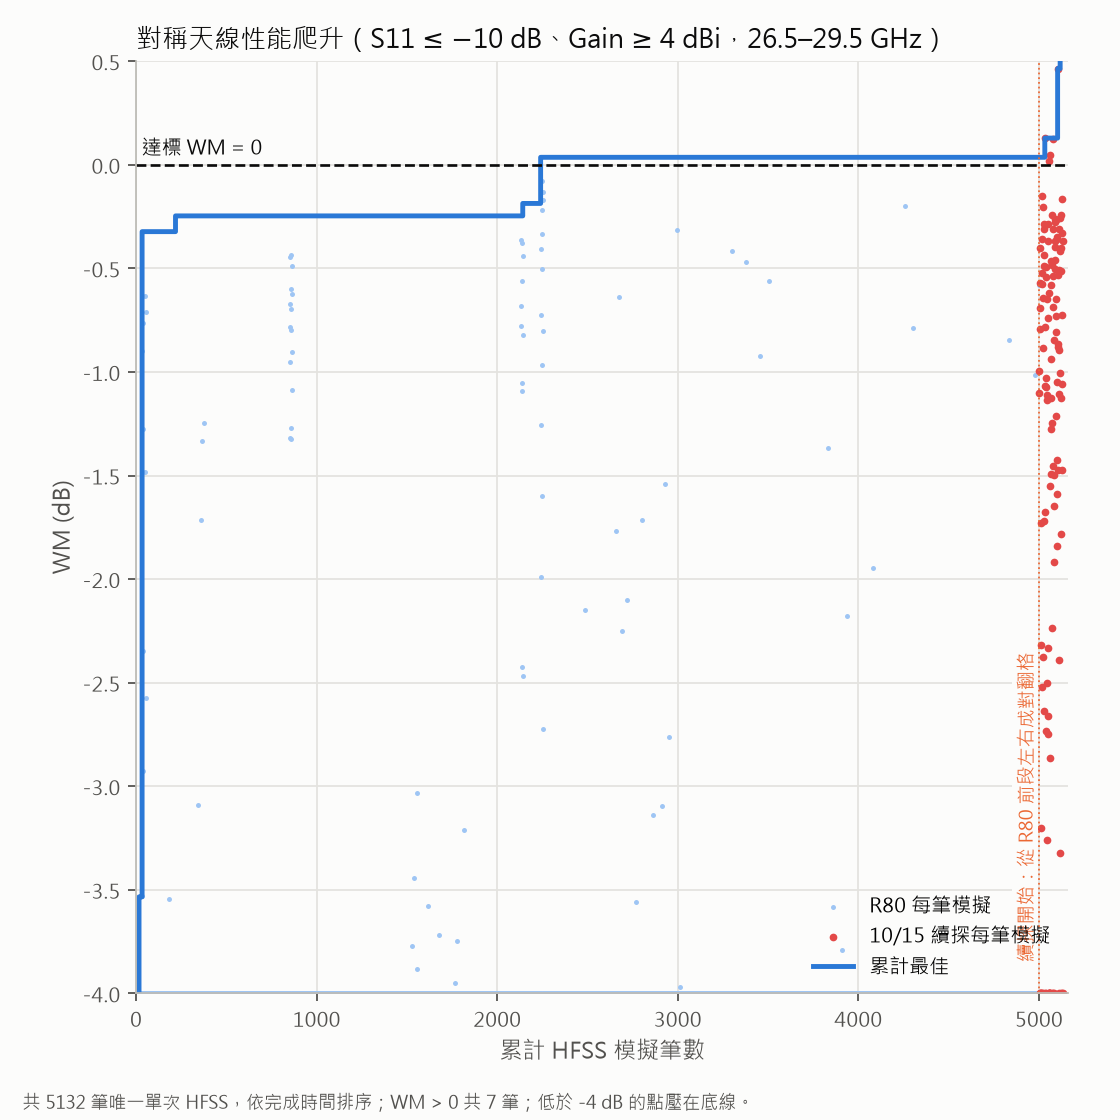
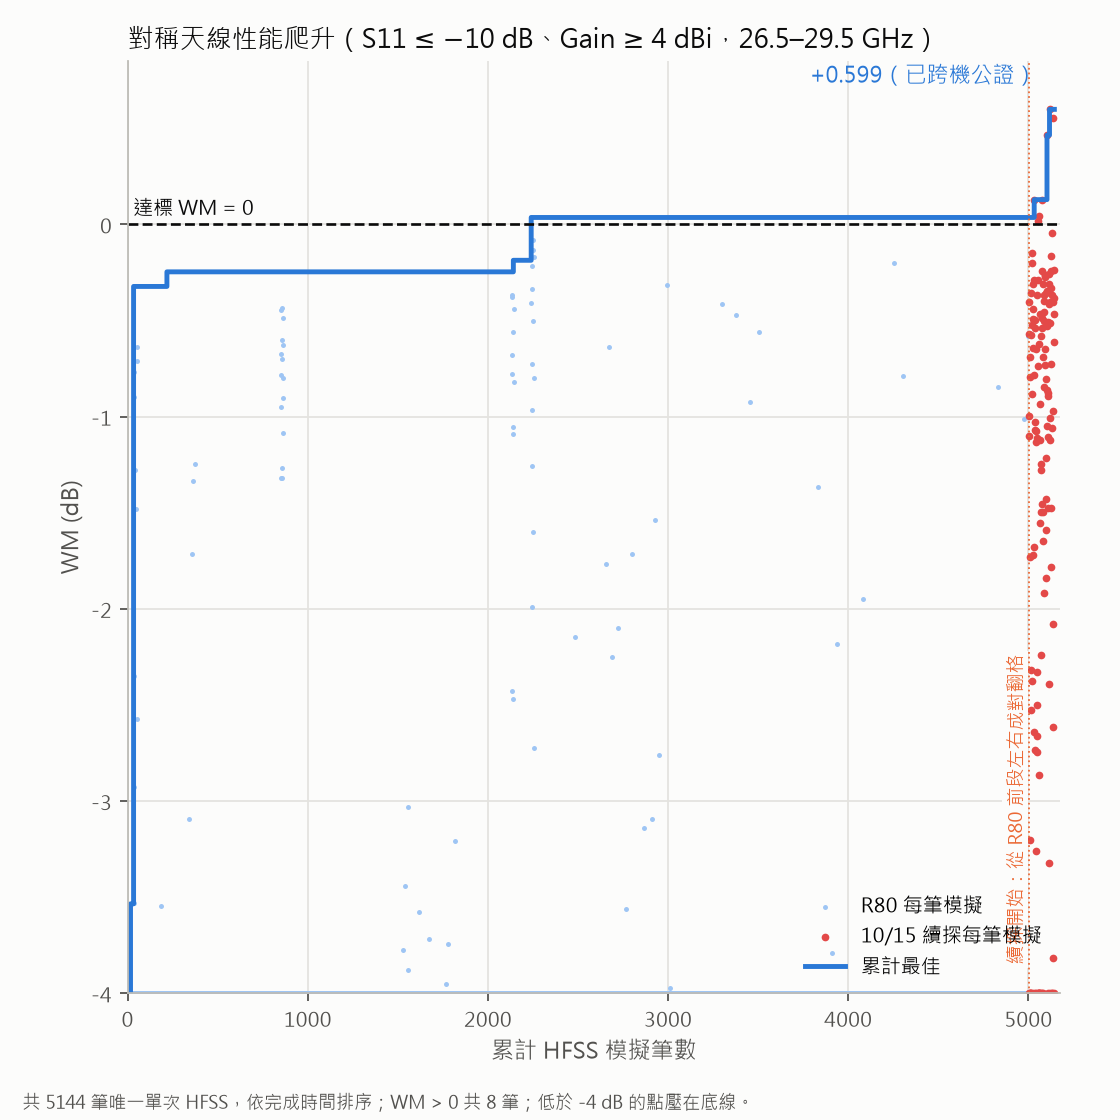
fig(r81/r80): v6 濾波器爬升圖與最佳卡片（−4.60 單次）；對稱天線加續探放大圖

diff --git a/script/figs/r81_v6.py b/script/figs/r81_v6.py
@@ -1,0 +1,138 @@
+"""R81 學長 v6 規格（11–40 GHz，阻帶 ≤ −20 dB）兩張圖：性能爬升、目前最佳設計卡片。
+
+用法：python -m script.figs.r81_v6 <輸出資料夾> [--id r81v2_b71_003_f8fd2069]
+輸出：r81v6_climb.png、r81v6_best_card.png（各格正方形）。
+資料：v2_v001 資料根中 11–40 GHz 量測的 store（補量 r81v6m02 與 b62 起各批），依批號排序；重測（~rep）不計入。
+"""
+import argparse
+import re
+from pathlib import Path
+
+import matplotlib
+matplotlib.use("Agg")
+import matplotlib.pyplot as plt
+import numpy as np
+
+from script import r81_curve_sm as sm
+from script.figs import r81_progress as rp
+
+DOT, LINE, MARK = "#9ec5f4", "#2a78d6", "#eb6834"
+V6, V6A = sm.REPO / "configs" / "dual_r81_v6.yaml", sm.REPO / "configs" / "dual_r81_v6a.yaml"
+EVENTS = [(62, "斷開＋大步變異 30 格：壓掉 13.5 GHz 峰"), (67, "饋墊附近細步"), (71, "12 格＋前 10 名起點")]
+
+
+def rows_v6(cfg, grid):
+    """11–40 GHz store 的全部 ok 實測，依（批號, store, id）排序；同圖只留第一筆。"""
+    stores = [s for s in sm.V2_DATASET.glob("dedust_r81v6*s?")
+              if re.search(r"(m02|b\d\d)s\d$", s.name) and (s / "results.json").exists()]
+    key = lambda s: 0 if "m02" in s.name else int(re.search(r"b(\d\d)s\d$", s.name).group(1))
+    rows, seen = [], set()
+    for s in sorted(stores, key=lambda s: (key(s), s.name)):
+        for r in sm.load_store(s, grid):
+            if "~rep" in r["id"] or r["sha"] in seen:
+                continue
+            sc = sm.true_wm(r, cfg, grid)
+            if sc:
+                seen.add(r["sha"])
+                r.update(batch=key(s), wm=sc["worst_margin"], margins=sc["margins"])
+                rows.append(r)
+    return rows
+
+
+def climb_figure(out, rows):
+    wm = np.array([r["wm"] for r in rows])
+    best = np.maximum.accumulate(wm)
+    x = np.arange(1, len(wm) + 1)
+    lo = -20
+    fig, ax = plt.subplots(figsize=(7, 7), dpi=160)
+    fig.patch.set_facecolor(rp.SURF)
+    ax.scatter(x, np.clip(wm, lo, None), s=8, color=DOT, lw=0, label="每筆模擬")
+    ax.step(x, best, where="post", color=LINE, lw=2.2, label="累計最佳")
+    ax.axhline(0, color=rp.INK, lw=1.2, ls="--")
+    ax.text(4, 0.3, "達標 WM = 0", fontsize=9, color=rp.INK)
+    batches = [r["batch"] for r in rows]
+    for b, text in EVENTS:
+        if b in batches:
+            i = batches.index(b)
+            ax.axvline(x[i], color=MARK, lw=0.8, ls=":")
+            ax.text(x[i] - 3, lo + 0.4, text, rotation=90, ha="right", va="bottom", fontsize=8.5, color=MARK,
+                    bbox=dict(facecolor=rp.SURF, edgecolor="none", pad=1.5))
+    ax.annotate(f"{best[-1]:+.2f}（單次）", xy=(x[-1], best[-1]), xytext=(-6, 10), textcoords="offset points",
+                ha="right", fontsize=10, color=LINE)
+    ax.set_xlim(0, x[-1] + 4)
+    ax.set_ylim(lo, 2)
+    ax.set_xlabel("累計 HFSS 模擬筆數（11–40 GHz）", color=rp.MUTED)
+    ax.set_ylabel("WM (dB)", color=rp.MUTED)
+    ax.set_title("濾波器 v6 性能爬升（阻帶 11–19、36–40 ≤ −20 dB）", loc="left", fontsize=11.5, color=rp.INK)
+    ax.legend(loc="lower right", frameon=False, fontsize=9)
+    rp.style(ax)
+    ax.set_box_aspect(1)
+    fig.text(0.02, 0.01, f"共 {len(wm)} 筆單次 HFSS；前 24 筆為 18–40 好設計以 11–40 重量；低於 {lo} dB 的點壓在底線。",
+             fontsize=8, color=rp.MUTED)
+    fig.tight_layout(rect=(0, 0.03, 1, 1))
+    fig.savefig(out, facecolor=rp.SURF)
+    plt.close(fig)
+    print("saved", out, len(wm), round(best[-1], 3))
+
+
+def curve(ax, grid, y, label, v6, v6a, margins):
+    for spec, ls in ((v6a, ":"), (v6, "--")):
+        for b in spec.score_spec["bands"]:
+            if b["label"] != label:
+                continue
+            lo, hi, thr = b["start_ghz"], b["stop_ghz"], b["threshold"]
+            ax.plot([lo, hi], [thr, thr], color=rp.INK, lw=1.4, ls=ls)
+            if spec is v6:
+                y0, y1 = (thr, 2) if b["relation"] == "le" else (-45, thr)
+                ax.fill_between([lo, hi], y0, y1, color=rp.BAD, alpha=0.08, lw=0)
+    ax.plot(grid, y, color=rp.CURVE, lw=2.0)
+    ax.set_xlim(11, 40)
+    ax.set_ylim(-45, 2)
+    ax.set_xticks([11, 15, 19, 22, 26, 30, 36, 40])
+    ax.set_xlabel("頻率 (GHz)", color=rp.MUTED, fontsize=9.5)
+    ax.set_ylabel(f"{label} (dB)", color=rp.MUTED, fontsize=9.5)
+    keys = [k for k in margins if k.startswith(label.lower())]
+    ax.set_title(f"{label}：" + "、".join(f"{k.split('_', 1)[1]} {margins[k]:+.2f}" for k in keys) + " dB",
+                 loc="left", fontsize=10.5, color=rp.INK)
+    rp.style(ax)
+    ax.set_box_aspect(1)
+
+
+def card_figure(out, r, grid, v6, v6a, n):
+    wma = sm.true_wm(r, v6a, grid)["worst_margin"]
+    fig, axes = plt.subplots(2, 2, figsize=(10, 10.6), dpi=160)
+    fig.patch.set_facecolor(rp.SURF)
+    for ax, (k, lab) in zip((axes[0, 0], axes[0, 1], axes[1, 0]), ((1, "S21"), (0, "S11"), (2, "S22"))):
+        curve(ax, grid, r["y"][k], lab, v6, v6a, r["margins"])
+    px = axes[1, 1]
+    px.imshow(r["pattern"].reshape(25, 25), cmap="Greys", origin="upper", interpolation="nearest")
+    px.set_xticks([]); px.set_yticks([])
+    px.set_title("pattern（25×25，上下緣中央為兩埠饋墊，兩埠金屬不相連）", loc="left", fontsize=10, color=rp.INK)
+    px.set_xlabel(r["id"], fontsize=8.5, color=rp.MUTED)
+    fig.suptitle(f"濾波器 v6 目前最佳：WM {r['wm']:+.2f} dB（−20 版）、{wma:+.2f} dB（−15 版），單次未公證",
+                 x=0.03, ha="left", fontsize=12.5, color=rp.INK)
+    fig.text(0.03, 0.01, "虛線＝v6（阻帶 ≤ −20）、點線＝v6a（≤ −15）、淡紅＝v6 禁區；通帶 26–30 GHz ≥ −3，"
+             f"S11/S22 26.5–29.5 GHz ≤ −10。{n} 筆 11–40 GHz 模擬中的最佳。", fontsize=8.5, color=rp.MUTED)
+    fig.tight_layout(rect=(0, 0.03, 1, 0.96), h_pad=3)
+    fig.savefig(out, facecolor=rp.SURF)
+    plt.close(fig)
+    print("saved", out)
+
+
+def main(argv=None):
+    ap = argparse.ArgumentParser()
+    ap.add_argument("outdir", type=Path)
+    ap.add_argument("--id", default=None, help="預設＝v6 WM 最高者")
+    args = ap.parse_args(argv)
+    plt.rcParams["font.family"] = ["Microsoft JhengHei", "sans-serif"]
+    v6, v6a = sm.load_cfg(V6), sm.load_cfg(V6A)
+    grid = sm.frequency_grid(v6.measurement)
+    rows = rows_v6(v6, grid)
+    args.outdir.mkdir(parents=True, exist_ok=True)
+    climb_figure(args.outdir / "r81v6_climb.png", rows)
+    best = next(r for r in rows if r["id"] == args.id) if args.id else max(rows, key=lambda r: r["wm"])
+    card_figure(args.outdir / "r81v6_best_card.png", best, grid, v6, v6a, len(rows))
+
+
+if __name__ == "__main__":
+    main()

diff --git a/script/figs/r80_sym.py b/script/figs/r80_sym.py
@@ -1,12 +1,13 @@
 """R80 對稱天線兩張圖：性能爬升（R80 5,000 筆＋10/15 續探）與目前最佳設計卡片。
 
 用法：python -m script.figs.r80_sym <輸出資料夾> [--id r80sc_b02_021_b1988fa4]
-輸出：r80sym_climb.png、r80sym_best_card.png（各格正方形）。
+輸出：r80sym_climb.png、r80sym_climb_zoom.png（只看續探）、r80sym_best_card.png（各格正方形）。
 WM＝26.5–29.5 GHz S11 ≤ −10 dB 與 Gain ≥ 4 dBi 兩項最差點取小（script/r80_sym_climb.py 同一把尺）。
 """
 import argparse
 import json
 import os
+import re
 from pathlib import Path
 
 import matplotlib
@@ -20,7 +21,7 @@ from script.figs import r81_progress as rp
 from script.figs.report_r1r10_style import polar_rad_ax
 from script.profiled_batch import load_profile_config
 
-DOT, LINE, MARK, NEW = "#9ec5f4", "#2a78d6", "#eb6834", "#e34948"
+DOT, LINE, MARK, NEW, GRIDC = "#9ec5f4", "#2a78d6", "#eb6834", "#e34948", "#d6d5d0"
 FREQS = np.arange(24, 32.01, .5)
 
 
@@ -55,7 +56,7 @@ def climb_figure(out, Y, sts):
     ax.annotate(f"{best[-1]:+.3f}（已跨機公證）", xy=(x[-1], best[-1]), xytext=(-8, 12), textcoords="offset points",
                 ha="right", fontsize=10, color=LINE)
     ax.set_xlim(0, x[-1] + 30)
-    ax.set_ylim(lo, 0.5)
+    ax.set_ylim(lo, max(0.5, best[-1] + 0.25))
     ax.set_xlabel("累計 HFSS 模擬筆數", color=rp.MUTED)
     ax.set_ylabel("WM (dB)", color=rp.MUTED)
     ax.set_title("對稱天線性能爬升（S11 ≤ −10 dB、Gain ≥ 4 dBi，26.5–29.5 GHz）", loc="left", fontsize=11.5,
@@ -66,6 +67,42 @@ def climb_figure(out, Y, sts):
     n_pass = int((wm > 0).sum())
     fig.text(0.02, 0.01, f"共 {len(wm)} 筆唯一單次 HFSS，依完成時間排序；WM > 0 共 {n_pass} 筆；"
              f"低於 {lo} dB 的點壓在底線。", fontsize=8, color=rp.MUTED)
+    fig.tight_layout(rect=(0, 0.03, 1, 1))
+    fig.savefig(out, facecolor=rp.SURF)
+    plt.close(fig)
+
+
+def zoom_figure(out, Y, sts):
+    """只看續探：x＝續探第幾筆，累計最佳從 R80 原 5,000 筆的最佳起算。"""
+    wm = sc.margins(Y).min(1)
+    new = np.array([s.startswith("dedust_r80sc") for s in sts])
+    start = wm[~new].max()
+    w = wm[new]
+    best = np.maximum.accumulate(np.maximum(w, start))
+    x = np.arange(1, len(w) + 1)
+    lo = -2
+    fig, ax = plt.subplots(figsize=(7, 7), dpi=160)
+    fig.patch.set_facecolor(rp.SURF)
+    ax.scatter(x, np.clip(w, lo, None), s=14, color=NEW, lw=0, label="續探每筆模擬")
+    ax.step(np.r_[0, x], np.r_[start, best], where="post", color=LINE, lw=2.2, label="累計最佳")
+    ax.axhline(0, color=rp.INK, lw=1.2, ls="--")
+    ax.axhline(start, color=rp.MUTED, lw=0.8, ls=":")
+    ax.text(x[-1], start - 0.06, f"R80 5,000 筆最佳 {start:+.3f}", ha="right", va="top", fontsize=8.5, color=rp.MUTED)
+    batch = [int(m.group(1)) if (m := re.search(r"scb(\d\d)", sid)) else 0 for sid in np.array(sts)[new]]
+    for b in sorted(set(batch))[1:]:
+        ax.axvline(x[batch.index(b)] - 0.5, color=GRIDC, lw=0.6)
+    ax.annotate(f"{best[-1]:+.3f}（已跨機公證）", xy=(x[-1], best[-1]), xytext=(-8, 10), textcoords="offset points",
+                ha="right", fontsize=10, color=LINE)
+    ax.set_xlim(0, x[-1] + 2)
+    ax.set_ylim(lo, best[-1] + 0.3)
+    ax.set_xlabel("續探累計模擬筆數（細線＝批次分界）", color=rp.MUTED)
+    ax.set_ylabel("WM (dB)", color=rp.MUTED)
+    ax.set_title("對稱天線續探放大（左右成對翻格爬山）", loc="left", fontsize=11.5, color=rp.INK)
+    ax.legend(loc="lower right", frameon=False, fontsize=9)
+    rp.style(ax)
+    ax.set_box_aspect(1)
+    fig.text(0.02, 0.01, f"續探 {len(w)} 筆，WM > 0 共 {int((w > 0).sum())} 筆；低於 {lo} dB 的點壓在底線。",
+             fontsize=8, color=rp.MUTED)
     fig.tight_layout(rect=(0, 0.03, 1, 1))
     fig.savefig(out, facecolor=rp.SURF)
     plt.close(fig)
@@ -137,6 +174,7 @@ def main(argv=None):
     args.outdir.mkdir(parents=True, exist_ok=True)
     P, Y, ids, sts = ordered(cfg)
     climb_figure(args.outdir / "r80sym_climb.png", Y, sts)
+    zoom_figure(args.outdir / "r80sym_climb_zoom.png", Y, sts)
     card_figure(args.outdir / "r80sym_best_card.png", args.id, cfg)
     print("saved", args.outdir, len(ids))
 

diff --git a/script/figs/README.md b/script/figs/README.md
@@ -44,5 +44,6 @@ dedust store / pool 快取。R6 的圖走 `python -m script.expected_best report
 - `diffsim_final.py` — analysis-08 最終對比圖（5 個模型 × 5 個分層的 ρ 全景，含 gate 線）；數字寫死在檔內（gate 是「只跑一次」的讀數，不該每次畫圖重跑 val）
 - `symmetry_profile.py` — 具名 profile 凍結資料的幾何六角格與 S11/Gain 頻率分布；輸入 `symmetry_analysis profile` 的 hash-bound JSON/NPZ，固定幾何座標、無插值。加 `--sample-id <id>` 產生單一樣本的金屬像素／S11／Gain／28 GHz 極座標方向圖卡，沿用 `polar_rad_ax`（0°朝上、每圈5 dB、±45°窗、G0−3 dB圈），兩截面共用刻度；顯示下限與截點數寫入收據，保留單次量測與描述統計限制。產生輸入 JSON/NPZ 的 `script/symmetry_analysis.py` 已於 2026-10-12 移除（tag `pre-cleanup-20261012`），已凍結的資料仍可直接重畫。
 - `meeting_*.py` — 2026-10 組會簡報（6–9 月成果）補圖，輸出到 `docs/進度報告/組會_2026-10/figs/`（該夾 gitignore，只在本機）；只讀 repo 內 md/json 與本機 tmp 快取，零 NAS。共用設定兩支：`meeting_common.py`（records_overview／relay_climb／ga_vs_random／f04 用）、`meeting_figkit.py`（dust_two_way／wing_waterfall／diag_grammar／diamond_vs_cut／mesh_convergence／diffsim_final／emforge_onboard 用）；spec_masks／phantom_evidence／gain_waterfall／budget_scatter 自帶設定；`meeting_square.py`（方格 pattern／響應）、`meeting_clean.py`（乾淨版分析圖）、`meeting_schematic.py`（講解示意圖，假資料不帶數字）也自帶設定。數字寫死處皆在檔內註明出處 round 檔。
-- `r80_sym.py` — R80 對稱天線：性能爬升（R80 5,000 筆＋10/15 續探，依完成時間）與最佳設計卡片（S11／Gain／pattern 含對角橋／28 GHz 兩切面方向圖）→ `docs/log/assets/round-80/`
+- `r80_sym.py` — R80 對稱天線：性能爬升（R80 5,000 筆＋10/15 續探，依完成時間）、續探放大圖與最佳設計卡片（S11／Gain／pattern 含對角橋／28 GHz 兩切面方向圖）→ `docs/log/assets/round-80/`
+- `r81_v6.py` — R81 學長 v6 規格（11–40 GHz、阻帶 ≤ −20）：性能爬升（補量＋b62 起各批）與目前最佳設計卡片（S21／S11／S22 各一格＋pattern）→ `docs/log/assets/round-81/r81v6_climb.png`、`r81v6_best_card.png`
 - `r81_v6_question.py` — R81 問學長用：v4x 最佳設計 b57_004 以 11–40 GHz 重量後，分別套 v4x 與學長 v6 spec 的 S21（標出 13.5–14 GHz 漏點）→ `docs/log/assets/round-81/r81_v6_question.png`
